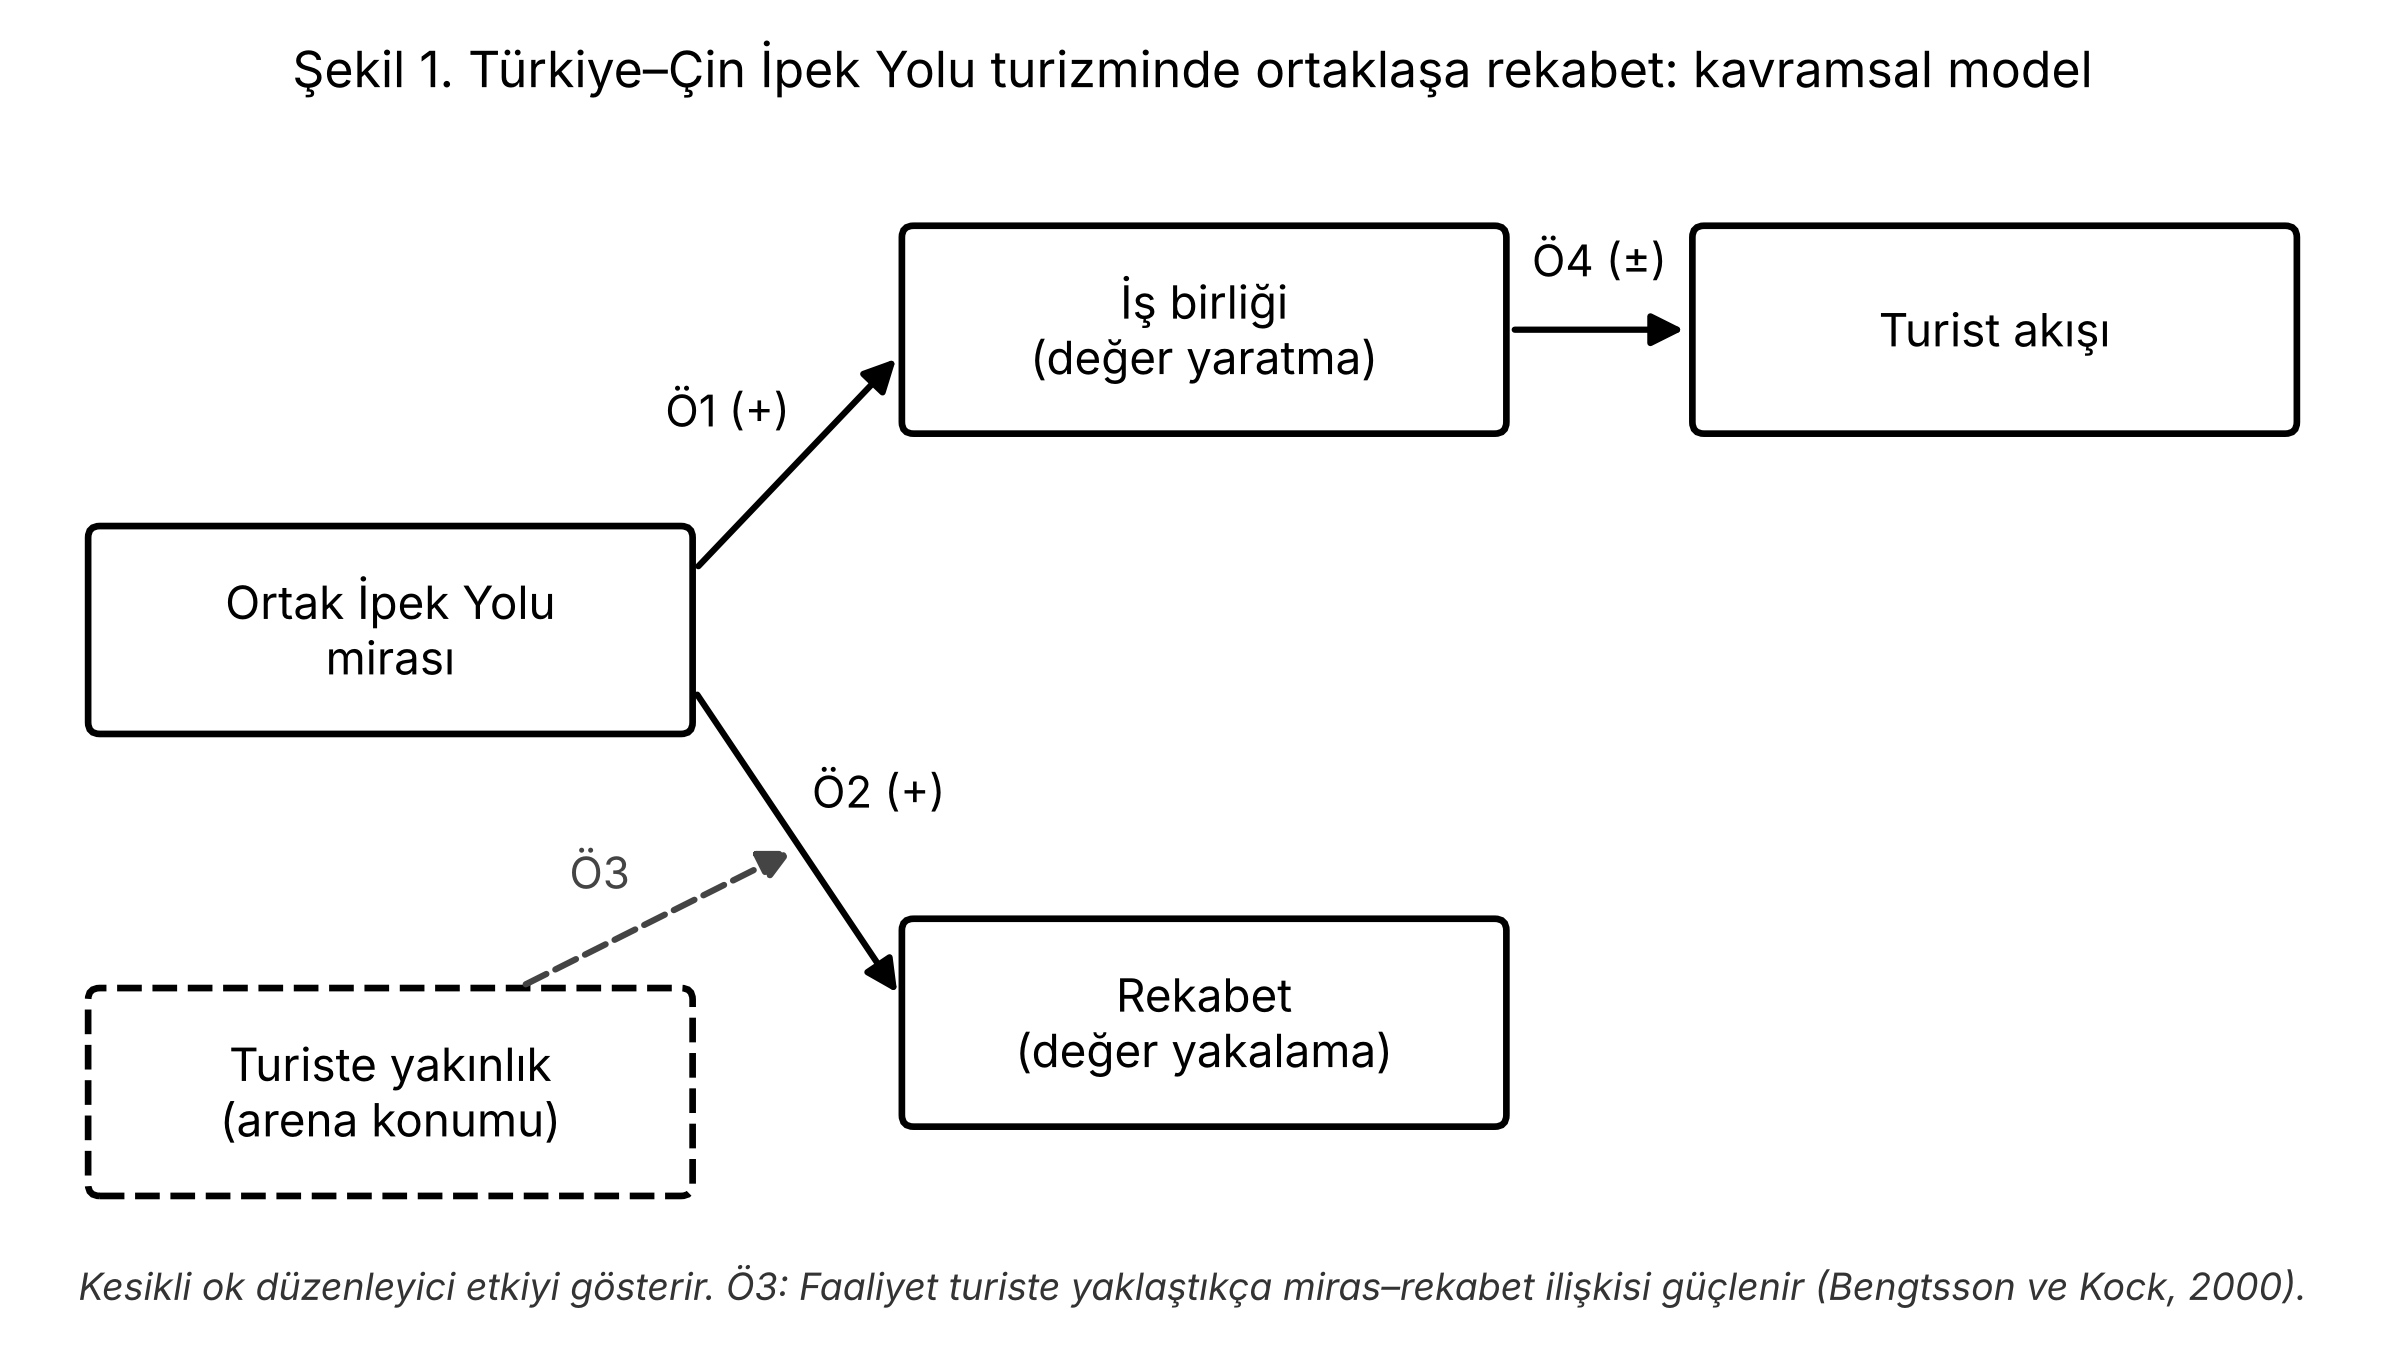
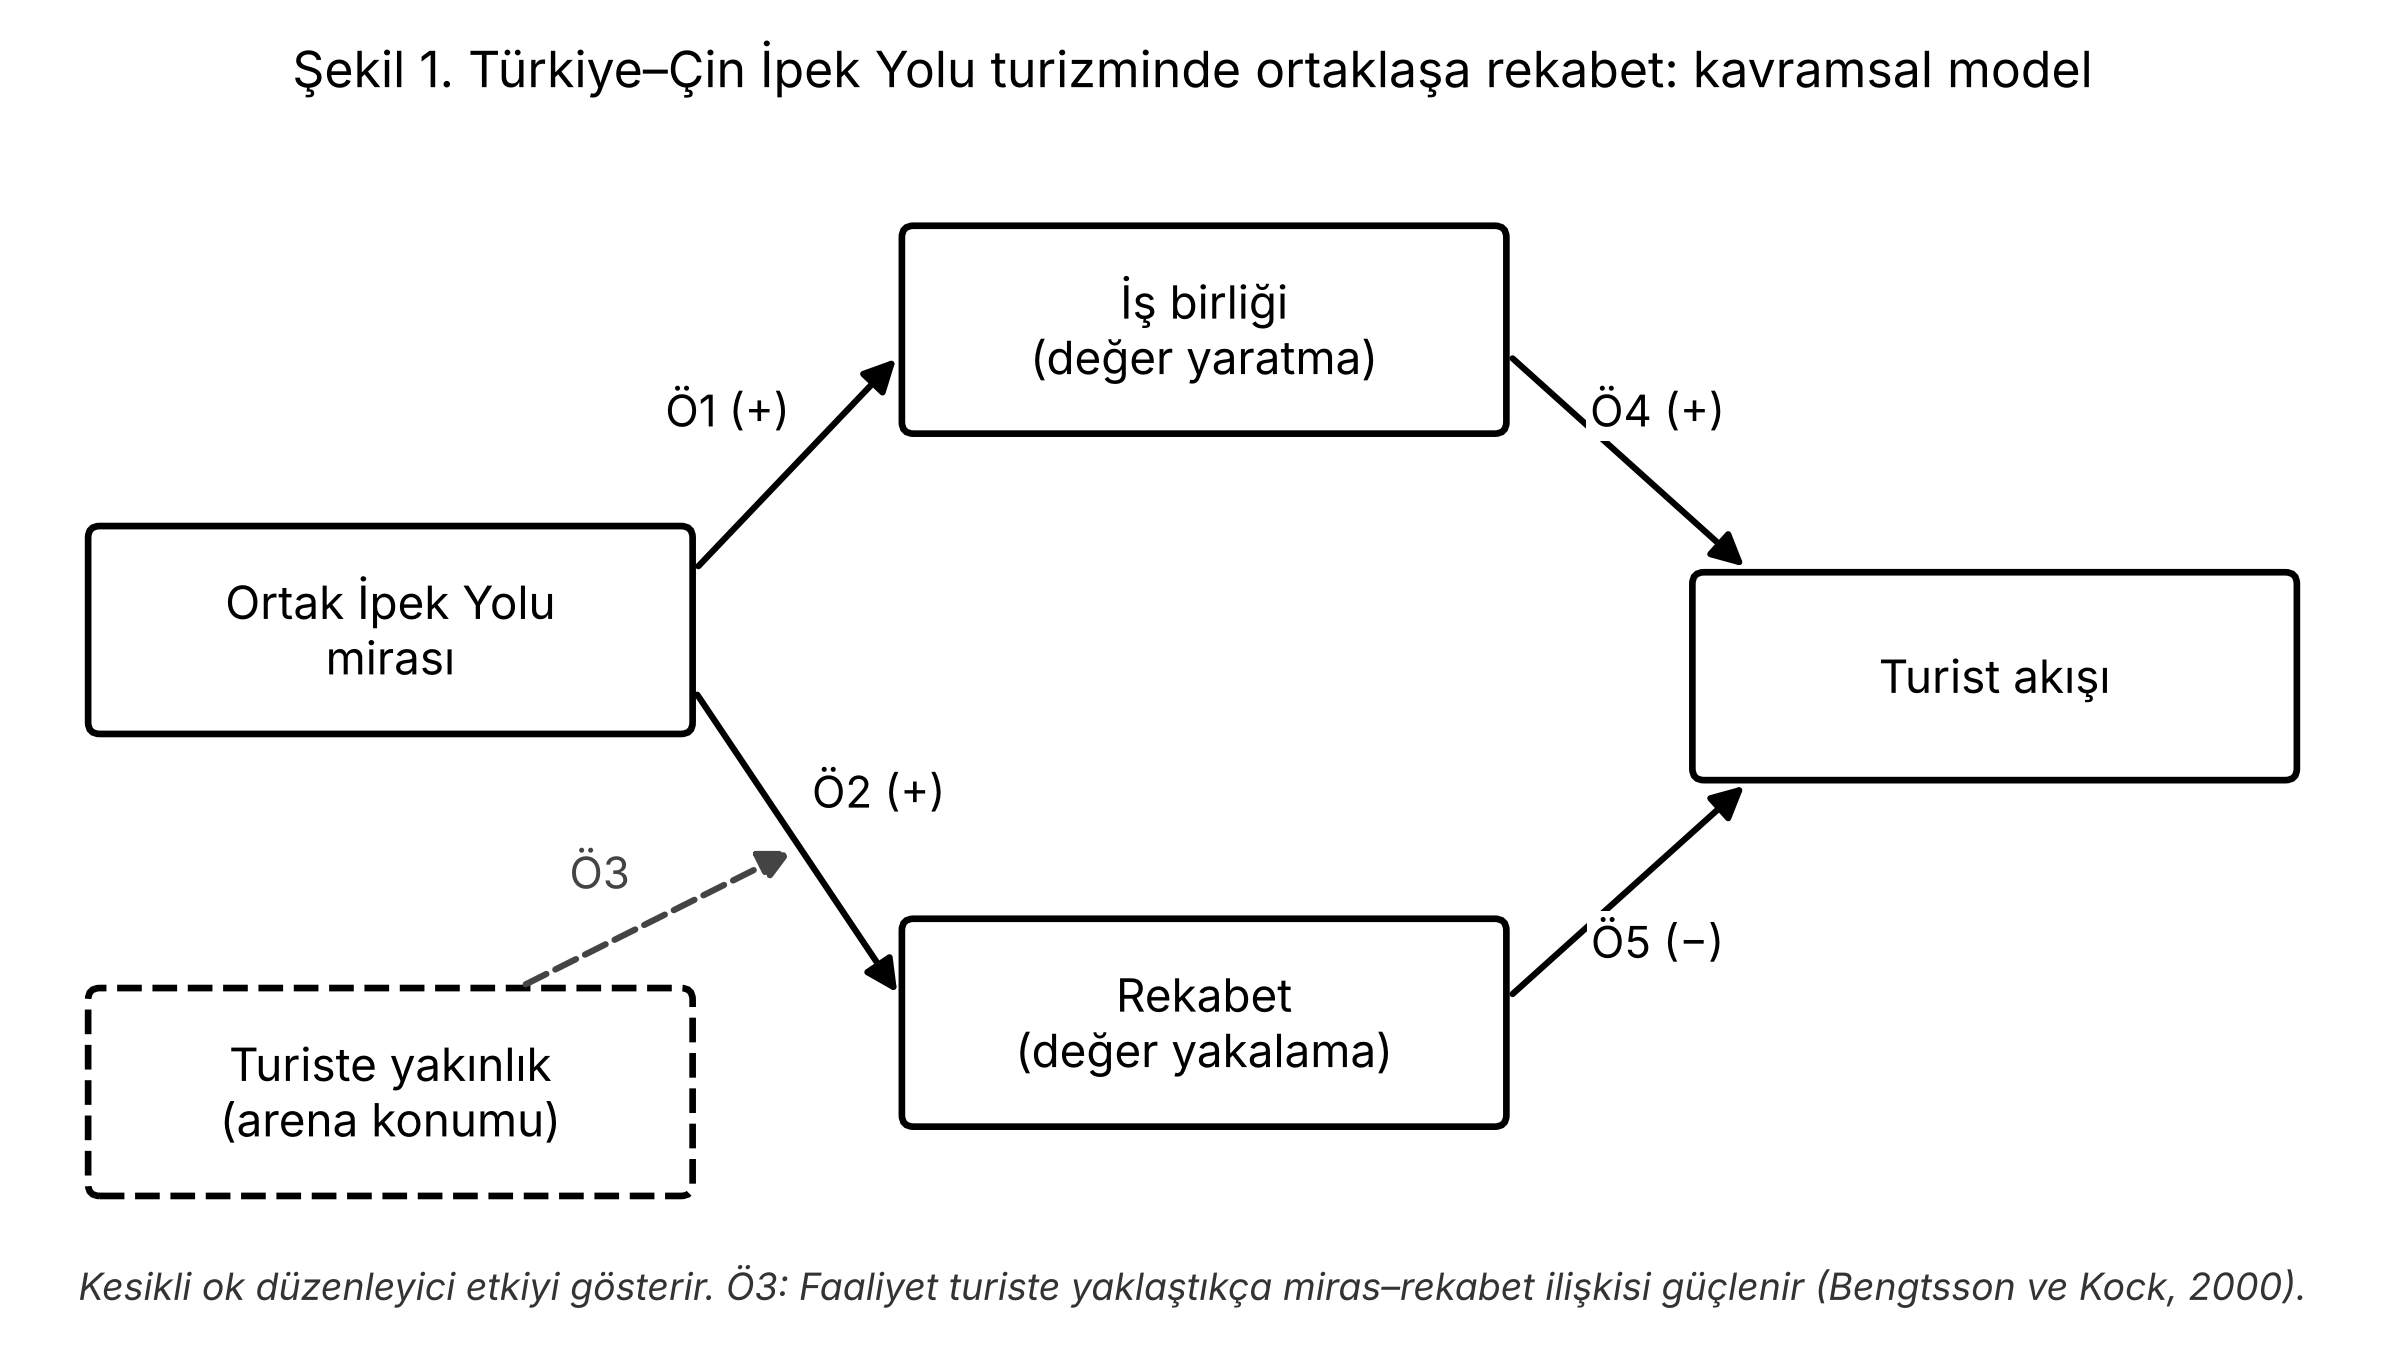
Model: Ö5 (rekabet → turist akışı) eklendi
Claude-Session: https://claude.ai/code/session_015BkByremFh97j9aWiMCq3J

diff --git a/makaleler/turkiye-cin-ortaklasa-rekabet/sekiller/sekil1_ciz.py b/makaleler/turkiye-cin-ortaklasa-rekabet/sekiller/sekil1_ciz.py
@@ -7,7 +7,7 @@ W, H = 2.5, 0.8
 kutu = {"miras": (0.3, 2.6, "Ortak İpek Yolu\nmirası"),
         "ib": (3.8, 3.9, "İş birliği\n(değer yaratma)"),
         "rk": (3.8, 0.9, "Rekabet\n(değer yakalama)"),
-        "akis": (7.2, 3.9, "Turist akışı"),
+        "akis": (7.2, 2.4, "Turist akışı"),
         "yak": (0.3, 0.6, "Turiste yakınlık\n(arena konumu)")}
 for k, (x, y, t) in kutu.items():
     ax.add_patch(FancyBboxPatch((x, y), W, H, boxstyle="round,pad=0.05", lw=1.6, fc="white",
@@ -19,7 +19,8 @@ def ok(p, q, lab, lp, ls="-", c="black"):
             bbox=dict(fc="white", ec="none", pad=1), color=c)
 ok((2.85, 3.25), (3.75, 4.2), "Ö1 (+)", (3.0, 3.95))
 ok((2.85, 2.75), (3.75, 1.4), "Ö2 (+)", (3.65, 2.3))
-ok((6.35, 4.3), (7.15, 4.3), "Ö4 (±)", (6.75, 4.6))
+ok((6.35, 4.2), (7.4, 3.25), "Ö4 (+)", (7.0, 3.95))
+ok((6.35, 1.4), (7.4, 2.35), "Ö5 (−)", (7.0, 1.65))
 ok((2.1, 1.45), (3.31, 2.06), "Ö3", (2.45, 1.95), ls="--", c="#444")
 ax.text(5, 5.35, "Şekil 1. Türkiye–Çin İpek Yolu turizminde ortaklaşa rekabet: kavramsal model",
         ha="center", fontsize=12)

diff --git a/makaleler/turkiye-cin-ortaklasa-rekabet/blueprint.md b/makaleler/turkiye-cin-ortaklasa-rekabet/blueprint.md
@@ -20,7 +20,8 @@ Nitel doküman analizi tasarımı: hipotez yerine **araştırma önermesi (Ö)**
 - **Ö1:** Ortak İpek Yolu mirası iki ülke arasında iş birliğini (değer yaratma) besler. Yön: pozitif · Beklenen görünürlük: güçlü (ikili belgelerin çoğunluğu) · Ref: Brandenburger & Nalebuff (1996); Niu & Li (2019).
 - **Ö2:** Aynı miras eşzamanlı olarak anlatı otoritesi ve değer yakalama rekabetini besler. Yön: pozitif · Görünürlük: orta (tek taraflı anlatılarda) · Ref: Deb21 (2021); Sci22 (2022).
 - **Ö3 (düzenleyici, ayrıştırma ilkesi):** Faaliyet turiste yaklaştıkça (bağlantısallık → turist akışı → anlatı → değer yakalama) rekabet kodlarının payı artar, iş birliği kodlarının payı azalır. Ref: Bengtsson & Kock (2000).
-- **Ö4:** İş birliği (özellikle bağlantısallık) turist akışına sınırlı ve dalgalı biçimde yansır. Yön: ilişkisel · Kanıt: TÜİK Çin uyruklu giriş, yabancılar içindeki pay %0,14–%1,00 aralığında (2012–2025); Farmanov vd. (2026) Orta Koridor'da yük var, yolcu yok.
+- **Ö4:** İş birliği (özellikle bağlantısallık ve karşılıklı tanıtım) turist akışını artırır. Yön: pozitif · Kanıt: TÜİK Çin uyruklu giriş, yabancılar içindeki pay %0,14–%1,00 aralığında (2012–2025); Farmanov vd. (2026) Orta Koridor'da yük var, yolcu yok.
+- **Ö5:** Rekabet, iş birliğinin turist akışına dönüşümünü sınırlar: Çin İpek Yolu'nu kendi yurt içi destinasyonlarında (Xi'an, Dunhuang vb.) pazarlayarak Çinli talebi içeride tutar; Çinli aracılar değerin bir kısmını kendinde tutar. Yön: negatif · Değerlendirme: yorumlayıcı (nedensel test değil); Ö4 ile Ö5 birlikte "söylem–akış açığını" açıklar · Ref: Daye vd. (2020); Sci22 (2022); İbiş & Batman (2018, %82,4 acente). Sınırlılık: Sincan tanıtımı kapsam dışı ilkesine göre yalnız ekonomik/turistik boyutta, siyasi tartışmaya girmeden anılır.
 
 ## 3. Kuramsal Mercek ve Sorunsallaştırma
 
@@ -59,7 +60,7 @@ Doküman analizi tasarımı olduğu için roller değişken rolü değil **anali
 ## 3c. Kavramsal Model (Şekil 1)
 
 - **Şekil:** `sekiller/sekil1-kavramsal-model.png` (300 dpi; elle yerleşim `sekiller/sekil1_ciz.py`) · **Tanım:** `sekiller/kavramsal-model.json`
-- `kavramsal_model.py` doğrulaması: çıkış 0 (5 kavram, 4 yol; oksuz önerme/kutusuz kavram yok). Otomatik yerleşim Ö2'yi yanıltıcı çizdiği için şekil aynı spec'ten elle yeniden çizildi.
+- `kavramsal_model.py` doğrulaması: çıkış 0 (5 kavram, 5 yol; oksuz önerme/kutusuz kavram yok). Otomatik yerleşim Ö2'yi yanıltıcı çizdiği için şekil aynı spec'ten elle yeniden çizildi.
 - Üretim: 2026-10-07. Kutular → §3b ek satırları: "Ortak İpek Yolu mirası", "Turiste yakınlık (arena konumu)" = ayrıştırma ilkesi satırı, "Turist akışı" = turist akışı arenası + TÜİK serisi.
 
 ## 4. Mukabil-Yazar Simülasyonu
@@ -113,4 +114,5 @@ Faz 5'te makale-yaz doldurur.
 ## 13. Versiyon Geçmişi
 
 - v1 (2026-10-07): ilk hal, proje-baslat tarafından oluşturuldu
+- v2.1 (2026-10-07): kullanıcı önerisiyle Ö5 eklendi (Rekabet → Turist akışı, negatif); Ö4 pozitif yapıldı
 - v2 (2026-10-07): konu-kesfet — §1, §2 (önermeler), §3 sorunsallaştırma, §3c Şekil 1, §10

diff --git a/makaleler/turkiye-cin-ortaklasa-rekabet/durum.md b/makaleler/turkiye-cin-ortaklasa-rekabet/durum.md
@@ -52,3 +52,4 @@ Durum sembolleri: ✓ tamam · → açık · İŞLEMDE · kilitli · ATLANDI
 [2026-10-07 03:20] kuramsal-mercek: Kritik realizm + Hart/sorunsallaştırma/huni kilitlendi (kullanıcı 'devam' dedi, editör seçti). §3b kavram tablosu 9 satır; 3 hücre <KAYNAK TEYİT>, 2 hücre <KAYNAK YOK>. Değer yakalama arenası kanıt zayıflığı nedeniyle düşebilir.
 [2026-10-07 03:40] Editör: Kullanıcı TÜİK 01_turizm zip'ini yükledi. Çin serisi 2000–2025 birincil kaynaktan çıkarıldı (ham-veri/cinli-ziyaretci-tuik.csv; kaynak xls'ler ham-veri/tuik-kaynak/). Çin payı yabancı girişlerde 2018'de %0,998 ile zirve, 2025'te %0,806. Pal24 tablosunda 2021 (26.000 ↔ TÜİK 33.641) hatalı. 2026 aylık veri yok → vize muafiyeti iddiası hâlâ doğrulanmadı.
 [2026-10-07 04:10] konu-kesfet: tamam, §1-§3c ve §10 dolu, Şekil 1 üretildi (kavramsal_model.py çıkış 0; elle yeniden yerleşim). Kalan Faz 2 kriterleri: yöntem kilidi (§5-§6), Undermind promptu (kullanıcı aramayı zaten koştu → teslim edilmiş sayılabilir).
+[2026-10-07 04:25] Kullanıcı: 'rekabetin sonucu ne?' → Ö5 eklendi (Rekabet → Turist akışı, −). Yeni kutu yerine ok: değer dağılımı için veri yok, kutu kanıtsız kalırdı. Ö4 ± → +. Şekil yeniden üretildi (doğrulama çıkış 0, 5 kavram 5 yol).
